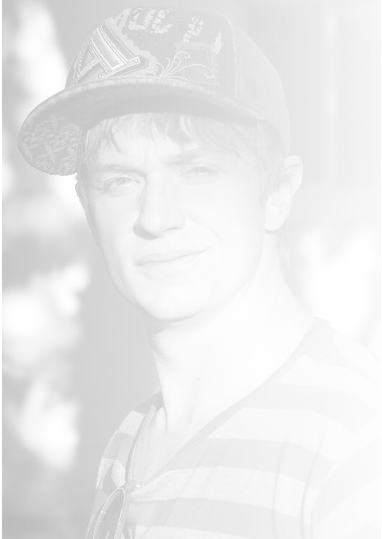
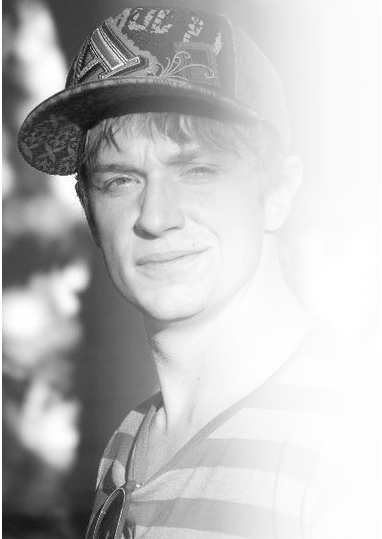
Front photo updated with better gradient

diff --git a/app/assets/stylesheets/application.css b/app/assets/stylesheets/application.css
@@ -65,6 +65,7 @@ body, html {
 	width: 100%;
 	height: 100%;
 	zoom: 100%;
+	background-color: #E1D7D7;
 }
 
 h1, h2, h3, h4, h5, h6 {
@@ -83,7 +84,7 @@ p {
 	top: 110px;
 	left: 40px;
 	background-color: #BEC09E;
-	z-index: -1;
+	z-index: +1;
 	border-bottom-right-radius: 10px;
 	border-bottom-left-radius: 10px;
 	box-shadow: 0 0 10px 0.5px;
@@ -111,7 +112,6 @@ p {
 	top: 120px;
 	left: -3px;
 	height: 500px;
-	z-index: -2;
 }
 
 

diff --git a/app/assets/javascripts/application.js b/app/assets/javascripts/application.js
@@ -52,7 +52,7 @@ $(function(){
 			if($(this).hasClass('selected')){
 				var up_id = $(this).attr('id');
 				var slide_elem_up = $("#" + up_id + "_slide");
-				slide_elem_up.animate({marginTop: "-=300px"}, 500);
+				slide_elem_up.animate({marginTop: "-=230px"}, 500);
 				$(this).removeClass('selected');
 			}
 		});

diff --git a/app/assets/stylesheets/main.css.scss b/app/assets/stylesheets/main.css.scss
@@ -15,6 +15,7 @@
 	box-shadow: 0 0 10px 0.5px;
 	background-color: #86B370;
 	position: fixed;
+	z-index: 2;
 }
 
 #nav ul {
